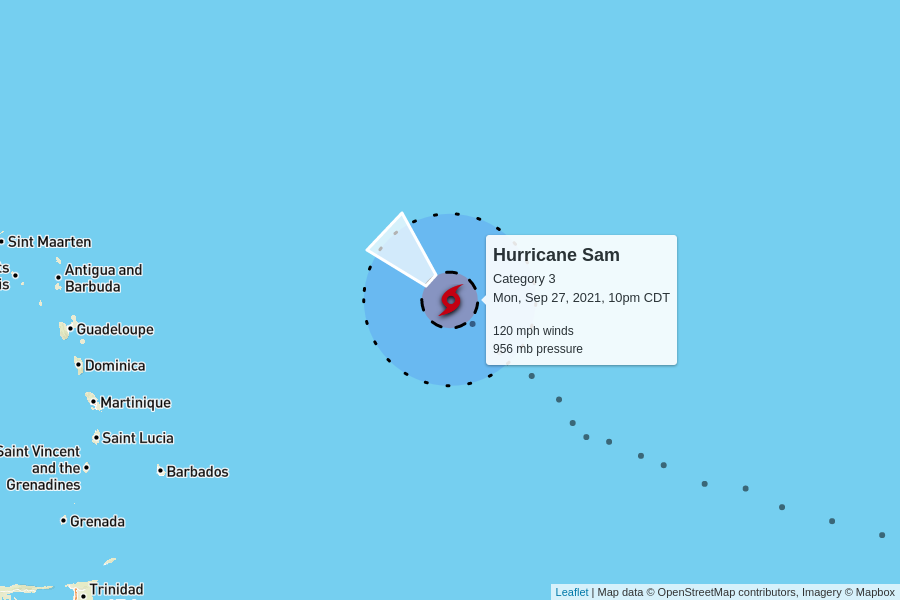
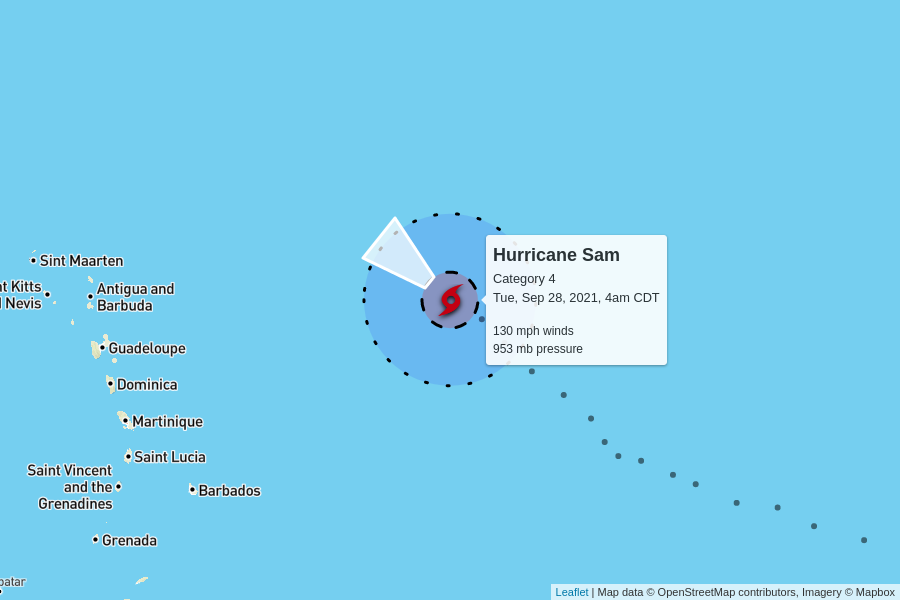
automatic update

diff --git a/docs/index.html b/docs/index.html
@@ -97,10 +97,10 @@
 
     <table>
       <tr>
-        <td colspan="6" class="storm category-3" >
+        <td colspan="6" class="storm category-4" >
           <h2>
-            Hurricane Sam - Category 3
-            <p class="updated">last updated <span data-time>2021-09-28T03:00:00.000Z</span></p>
+            Hurricane Sam - Category 4
+            <p class="updated">last updated <span data-time>2021-09-28T09:00:00.000Z</span></p>
           </h2>
         </td>
       </tr>
@@ -115,12 +115,12 @@
       </tr>
       <tr>
         <td class="spacer"></td>
-        <td>120 mph</td>
-        <td>956 mb</td>
+        <td>130 mph</td>
+        <td>953 mb</td>
         <td>
           9 mph to the northwest
           <br/>
-          <span style="display: inline-block; font-size: 1.5em; transform: rotate(315deg);">↑</span>
+          <span style="display: inline-block; font-size: 1.5em; transform: rotate(310deg);">↑</span>
         </td>
         <td><a href="https://raw.githubusercontent.com/mgwalker/atlantic-hurricanes/main/data/csv/AL182021.csv">AL182021.csv</a></td>
         <td><a href="https://www.nhc.noaa.gov/archive/2021/SAM.shtml?">NHC advisories</a></td>
